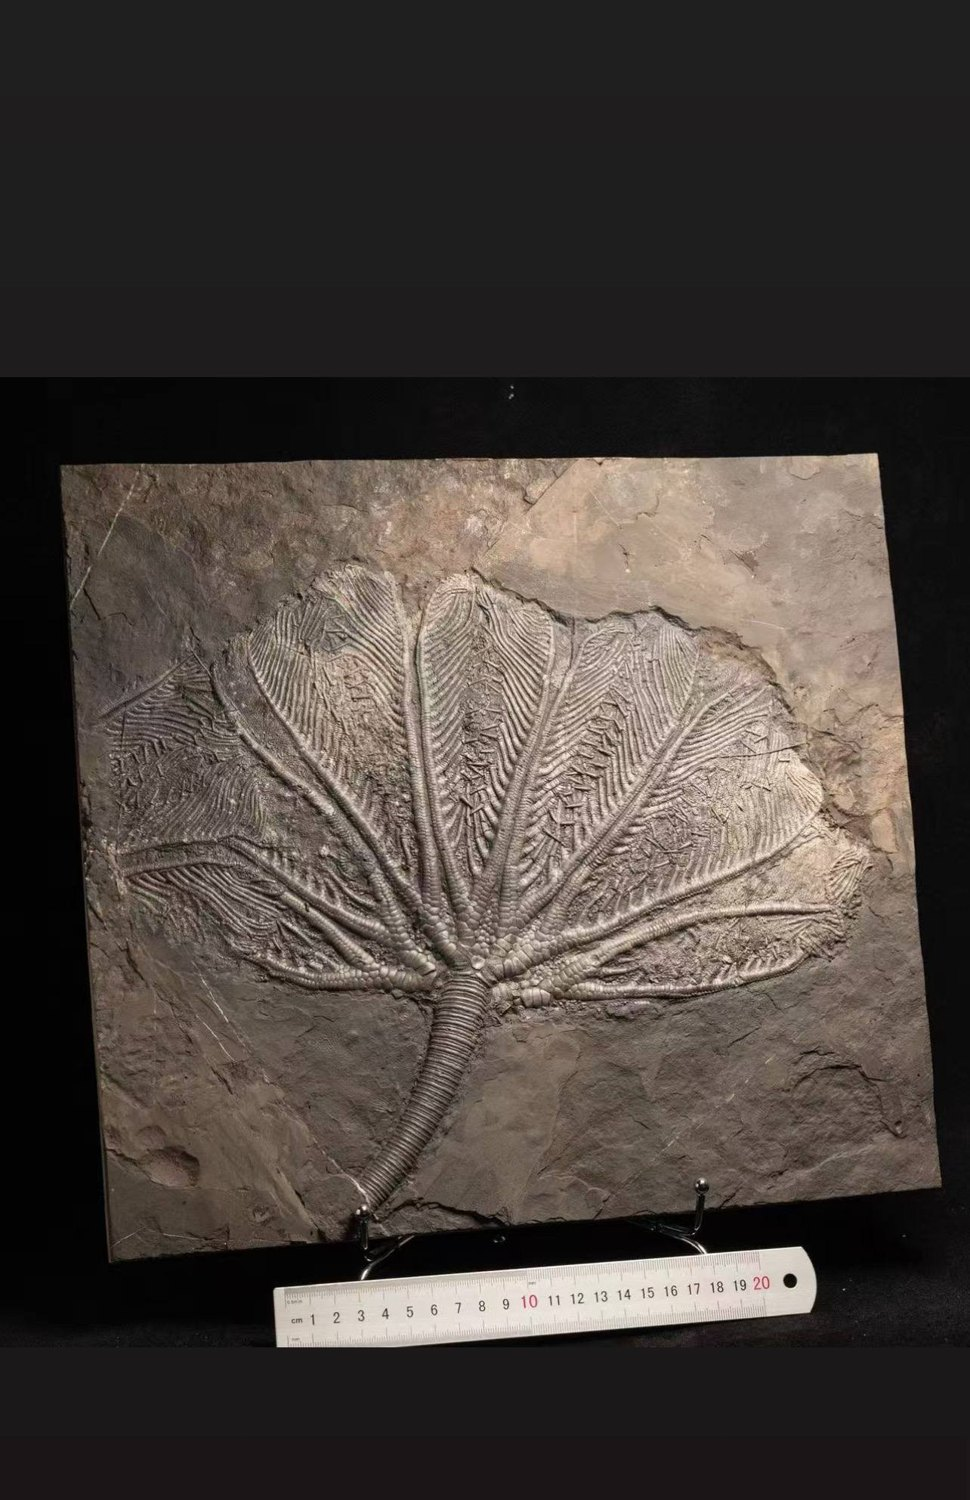
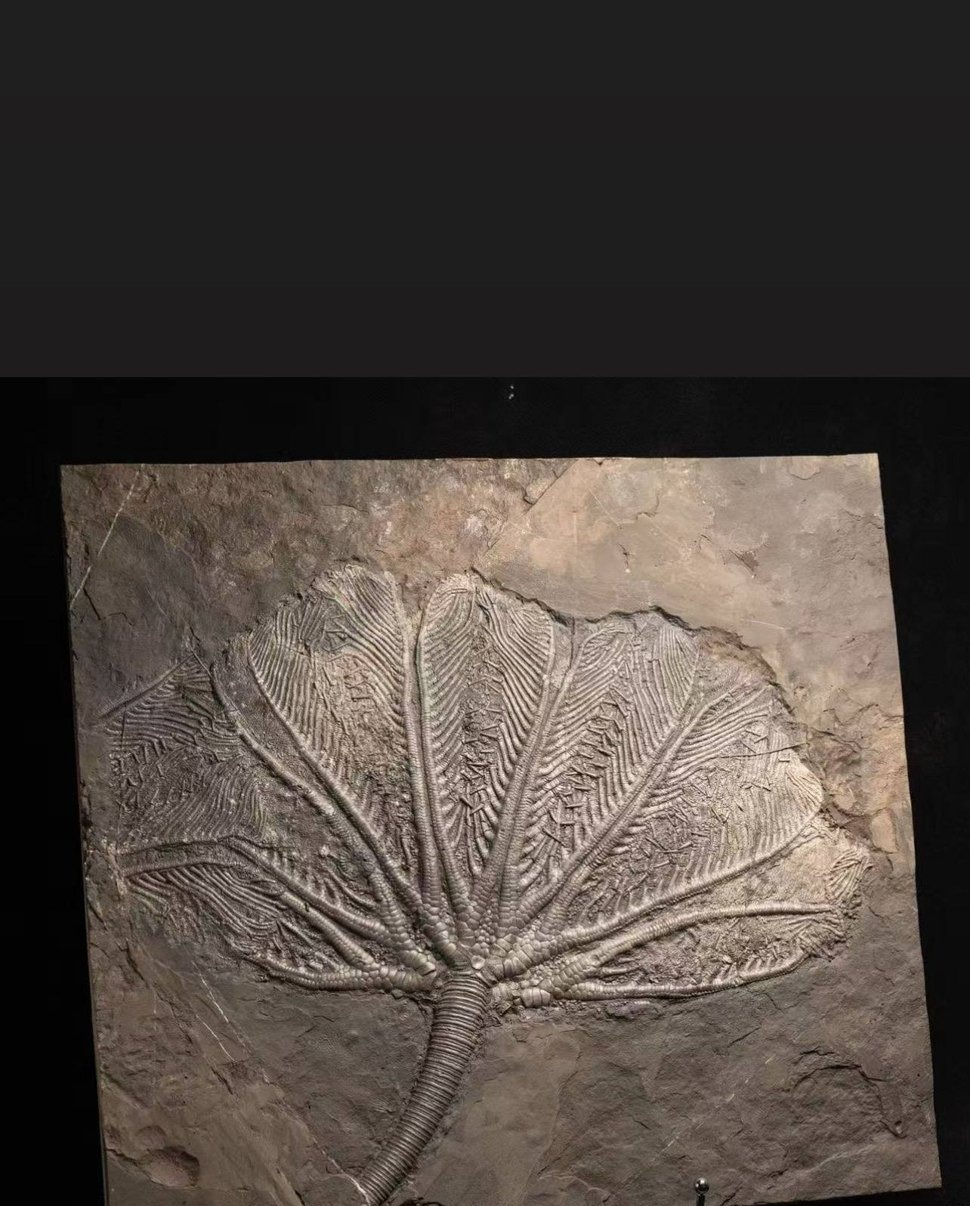
Галерея: сырые кадры вон, плитки собираются без обрезки, аммонитам свои реконструкции
Сырые снимки поставщика в галерее: кости дромеозаврида на столе мастерской,
рулетка поперёк аммонитов, рука в кадре — убраны. У пяти морских лилий кадр
спасён обрезкой линейки-масштаба (оригиналы в 05_art/_originals_rulers).

Плитка галереи горизонтальная, а каноны вертикальные — в кадр 3:2 влезает лишь
53 % высоты (прежняя формула считала это число перевёрнутым, отсюда срезанные
головы). Теперь сборщик меряет посадку объекта: что помещается — обрезает по
объекту, что не помещается — собирает готовую плитку tile_*.jpg, продлевая фон
построчно от кромки. Стыка нет по построению, по клику открывается оригинал.

Дромеозавриду реконструкция была зеркальна канону — переснята по нему.
Двум ульяновским аммонитам стояла чужая реконструкция от французского
Arietites — сделаны свои: реконструкция и чертёж по каждому канону.

diff --git a/16_product_promos/exhibit.html b/16_product_promos/exhibit.html
@@ -170,11 +170,11 @@ a{color:inherit;text-decoration:none}
 .gallery{padding:clamp(44px,6vw,84px) 0 clamp(44px,6vw,84px)}
 .gallery .ggrid{display:grid;grid-template-columns:1fr 1fr;gap:14px}
 @media(max-width:680px){.gallery .ggrid{grid-template-columns:1fr}}
-.gallery .gitem{border:1px solid var(--linel);overflow:hidden;background:var(--bone)}
+.gallery .gitem{border:1px solid var(--linel);overflow:hidden;background:var(--bone);position:relative}
 /* Плитки одного горизонтального формата: сетка держит ровный ритм, кадр
    заполняет плитку без светлых полей. Подрезка не теряет ничего — по клику
    снимок открывается целиком в полноэкранном просмотре. */
-.gallery .gitem img{width:100%;aspect-ratio:3/2;object-fit:cover;display:block;background:var(--ivory,#F4F0E8);cursor:zoom-in;transition:transform .8s var(--ease)}
+.gallery .gitem img{position:relative;z-index:1;width:100%;aspect-ratio:3/2;object-fit:cover;display:block;cursor:zoom-in;transition:transform .8s var(--ease)}
 /* посадка задаётся индивидуально из focus.js — см. сборщик */
 .gallery .gitem:hover img{transform:scale(1.04)}
 
@@ -437,14 +437,15 @@ if(!o){
       '<div class="label rv" style="margin-bottom:16px">Галерея</div>'+
       '<div class="ggrid">'+
         gallery.map(function(g){
-          /* Каноны, чертежи и реконструкции вертикальные (4:5), плитка горизонтальная (3:2):
-             при обрезке по центру у объектов с низкой посадкой срезался постамент.
-             Кадрирование смещено вниз — сверху у таких кадров пустой фон. */
-          var fy=(window.RELICTUM_FOCUS||{})[g], st='';
-          if(typeof fy==='string' && fy.indexOf('fit')===0)
-            st=' style="object-fit:contain;background:'+(fy.split(':')[1]||'#F4F0E8')+'"';
+          /* Плитка горизонтальная (3:2), а каноны, чертежи и реконструкции
+             вертикальные (4:5) — в кадр влезает лишь половина высоты. Посадку
+             каждого кадра считает сборщик (shared/focus.js): что помещается —
+             обрезаем по объекту, что не помещается — вписываем целиком, а поля
+             закрываем размытой копией самого кадра, чтобы не было стыка. */
+          var fy=(window.RELICTUM_FOCUS||{})[g], st='', src=IMG+g;
+          if(fy==='tile') src=IMG+'tile_'+g;
           else if(fy!==undefined) st=' style="object-position:center '+fy+'%"';
-          return '<div class="gitem rv"><img src="'+IMG+g+'"'+st+' alt="'+o.name+' — ракурс" loading="lazy"></div>'}).join('')+
+          return '<div class="gitem rv"><img src="'+src+'" data-full="'+IMG+g+'"'+st+' alt="'+o.name+' — ракурс" loading="lazy"></div>'}).join('')+
       '</div>'+
     '</div></section>') : '';
 
@@ -566,7 +567,7 @@ if(!o){
     document.addEventListener('keydown',function(e){ if(e.key==='Escape') close(); });
     items.forEach(function(im){
       im.addEventListener('click',function(){
-        big.src=im.currentSrc||im.src; big.alt=im.alt||'';
+        big.src=im.getAttribute('data-full')||im.currentSrc||im.src; big.alt=im.alt||'';
         pop.classList.add('on'); document.body.style.overflow='hidden';
       });
     });

diff --git a/16_product_promos/promo-data.js b/16_product_promos/promo-data.js
@@ -44,11 +44,11 @@ window.RELICTUM_PROMO = {
     hook: "Хищник, у которого коготь работал как выкидной нож.",
     interior: { img: "int_ph_raptor.jpg", text: "Скелет двухметрового хищника держит комнату один: ему нужна глубина, тёмный фон и один направленный луч." },
     era: { title: "Последнее утро мезозоя", line: "Поздний мел", href: "../15_concepts/era-cretaceous.html" },
-    gallery: ["g_raptor_1.jpg", "g_raptor_2.jpg"]
+    gallery: []
   },
 
   "R–0273": {
-    life: { img: "life_arietites.jpg", label: "При жизни", stateLabel: "При жизни", title: "Спираль, в которой жил моллюск" },
+    life: { img: "life_craspedodiscus.jpg", diagram: "anat_craspedodiscus.jpg", label: "При жизни", stateLabel: "При жизни", title: "Спираль, в которой жил моллюск", text: "Головоногий моллюск в раковине той же широкой дисковидной формы: тело и щупальца выходили из устья, камеры позади наполнялись газом и держали животное в толще воды. Раннемеловое море над Русской платформой — прохладное, мутноватое, с илистым дном." },
     profile: {
       facts: {
         "Среда обитания": "Тёплое меловое море на месте нынешнего Поволжья",
@@ -65,11 +65,11 @@ window.RELICTUM_PROMO = {
     },
     hook: "Багровые сполохи, которые загораются и гаснут с поворотом света.",
     interior: { img: "int_ph_craspedodiscus.jpg", text: "Такому аммониту нужен направленный луч: от угла света зависит, вспыхнет ли перламутр." },
-    gallery: ["g_craspedodiscus_1.jpg", "g_craspedodiscus_2.jpg"]
+    gallery: []
   },
 
   "R–0274": {
-    life: { img: "life_arietites.jpg", label: "При жизни", stateLabel: "При жизни", title: "Обычный житель Волжского моря" },
+    life: { img: "life_speetoniceras.jpg", diagram: "anat_speetoniceras.jpg", label: "При жизни", stateLabel: "При жизни", title: "Обычный житель Волжского моря", text: "Живой моллюск в раковине с теми же крупными рёбрами и открытой спиралью, где виден каждый оборот. Щупальца выходили из устья, камеры позади держали животное на плаву. Раннемеловое море над Русской платформой — прохладное, мутноватое, с илистым дном." },
     profile: {
       facts: {
         "Среда обитания": "Мелководное Волжское море мелового периода",
@@ -86,7 +86,7 @@ window.RELICTUM_PROMO = {
     },
     hook: "Бронза и ровный ритм рёбер — аммонит, который берут в интерьер.",
     interior: { img: "int_ph_speetoniceras.jpg", text: "Ребристая спираль любит боковой свет: рельеф читается тенями, как резьба." },
-    gallery: ["g_speetoniceras_1.jpg"]
+    gallery: []
   },
 
   "R–0609": {

diff --git a/09_admin/build_public_site.py b/09_admin/build_public_site.py
@@ -315,6 +315,32 @@ def stamp_media(out_dir):
     return touched
 
 
+def make_tile(src, img_dir, name):
+    """Собирает горизонтальную плитку 3:2 из вертикального кадра.
+
+    Кадр ставится целиком по центру, а поля по бокам заполняются продолжением
+    его же фона: каждая строка полей красится цветом крайнего пикселя этой
+    строки и слегка размывается. Стыка нет по построению — на границе цвета
+    совпадают пиксель в пиксель, а дальше фон плавно уходит в поле.
+    """
+    import numpy as np
+    from PIL import Image, ImageFilter
+    a = np.asarray(src.convert('RGB')).astype(np.uint8)
+    h, w = a.shape[:2]
+    W = int(round(h * 3 / 2))
+    if W <= w:
+        return
+    pad = (W - w) // 2
+    out = np.zeros((h, W, 3), dtype=np.uint8)
+    out[:, pad:pad + w] = a
+    out[:, :pad] = a[:, :1]             # продолжение левой кромки построчно
+    out[:, pad + w:] = a[:, -1:]        # и правой
+    im = Image.fromarray(out)
+    bg = im.filter(ImageFilter.GaussianBlur(18))
+    bg.paste(Image.fromarray(a), (pad, 0))   # сам кадр остаётся резким
+    bg.save(os.path.join(img_dir, 'tile_' + name), quality=88)
+
+
 def write_focus_map():
     """Считает вертикальную посадку объекта в каждом кадре галереи.
 
@@ -355,17 +381,15 @@ def write_focus_map():
             continue
         top, bot = ys[0] / h, ys[-1] / h
         centre = (top + bot) / 2
-        vis = (2 / 3) / (w / h)         # какая доля высоты видна в плитке 3:2
+        vis = (2 / 3) * (w / h)         # какая доля высоты видна в плитке 3:2
         if vis >= 1:
             continue
         if bot - top > vis - 0.02:
             # Объект выше видимого окна (медведь, стоящий во весь кадр): любая
             # обрезка режет либо голову, либо лапы. Вписываем целиком — фон
             # студийного кадра совпадает с цветом плитки, стыка не видно.
-            rgb = np.asarray(src.convert('RGB'))
-            edge = np.concatenate([rgb[:8].reshape(-1, 3), rgb[-8:].reshape(-1, 3)])
-            tone = ''.join('%02x' % int(v) for v in np.median(edge, axis=0))
-            focus[f] = 'fit:#' + tone   # плитке зададим фон самого кадра — без шва
+            make_tile(src, img_dir, f)
+            focus[f] = 'tile'           # плитка собрана отдельно, кадр в ней целиком
             continue
         p = (centre - vis / 2) / (1 - vis)
         focus[f] = round(max(0.0, min(1.0, p)) * 100)
@@ -433,6 +457,11 @@ def prune_media():
             if not f.lower().endswith(MEDIA_EXT):
                 continue
             stem = f.rsplit('.', 1)[0]
+            # Плитки галереи (tile_<кадр>.jpg) собирает сборщик, а имя им шаблон
+            # склеивает уже в браузере — в тексте страниц его нет. Держим плитку,
+            # пока жив её исходный кадр.
+            if f.startswith('tile_'):
+                stem = f[len('tile_'):].rsplit('.', 1)[0]
             # имя целиком или без расширения (в данных картинки задаются как "ph_slug").
             # Хвост проверяем обязательно: голое `stem in blob` считает «ph_cave_lion»
             # использованным из-за «ph_cave_lion2.jpg» — сироты так оставались в срезе.
